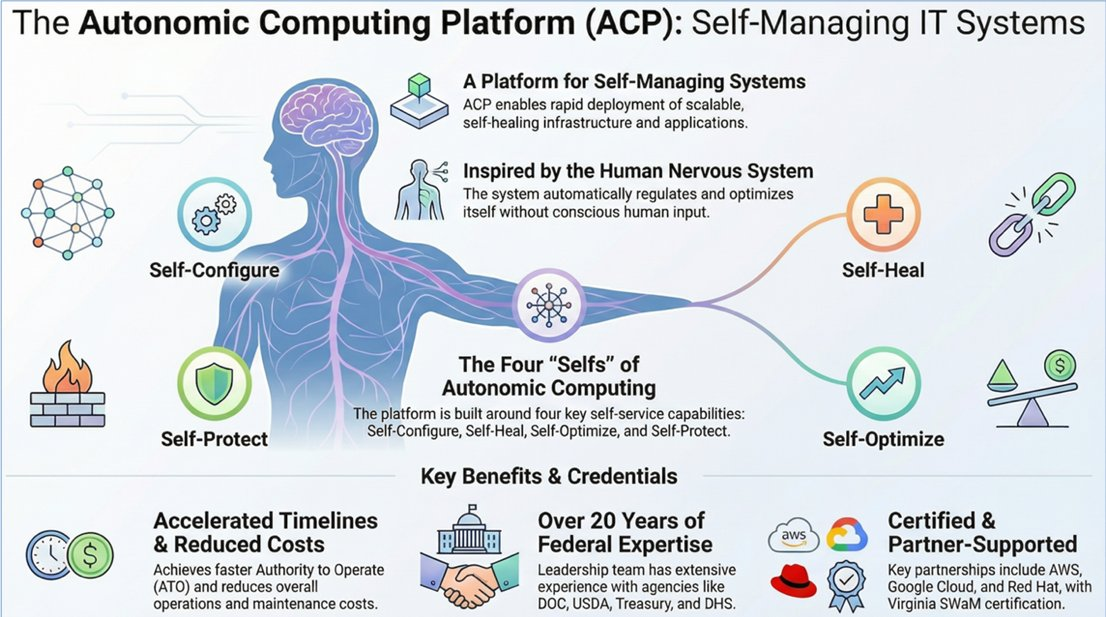
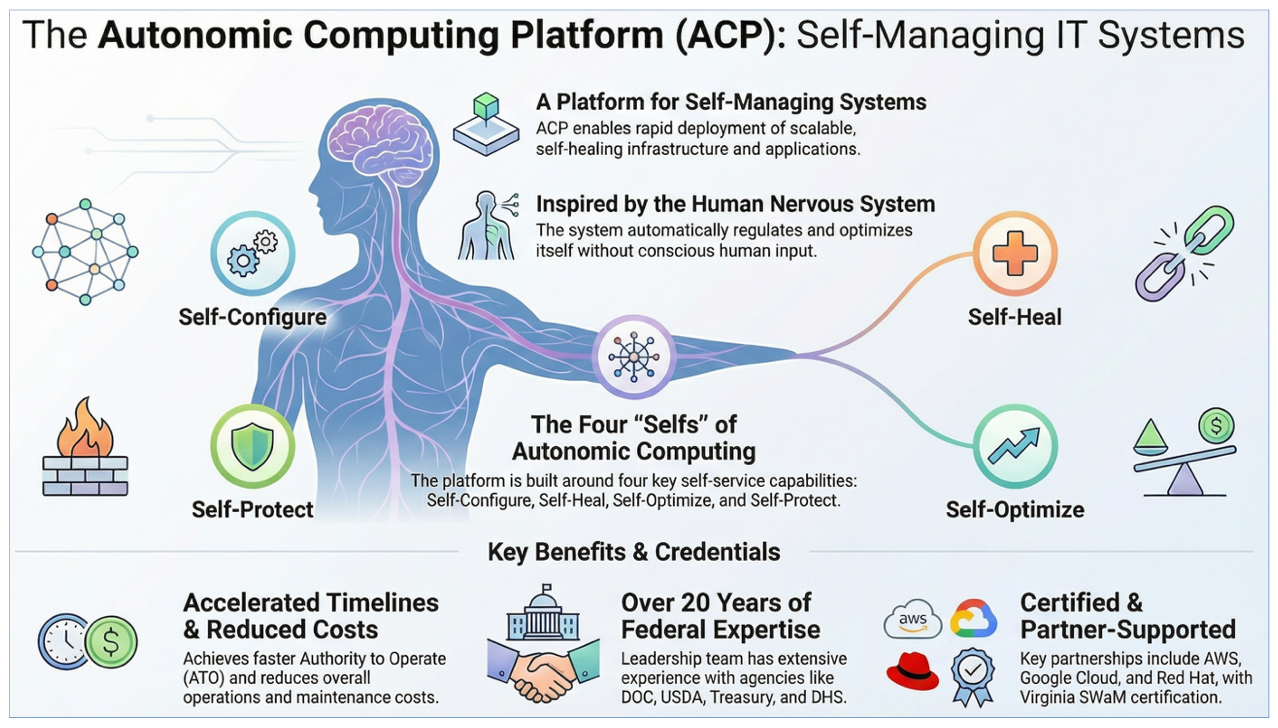
Video Testing

diff --git a/acp-core-ui/src/app/about/about.component.html b/acp-core-ui/src/app/about/about.component.html
@@ -27,7 +27,8 @@
                 <p>
                     <strong>Autonomic Solutions LLC.</strong> is a Virginia SWaM certified small business providing
                     mission-focused digital and cloud services to the US federal government. We are part of the
-                    <em>AWS Activate | Builders</em> and <em>Google Cloud for Startups</em> programs, bringing turnkey
+                    <strong><em>AWS Activate | Builders</em></strong> and <strong><em>Google Cloud for
+                            Startups</em></strong> programs, bringing turnkey
                     and innovative solutions for systems modernization and integration, cloud adoption, DevSecOps, data
                     analytics, and AI/ML implementations for enterprises. Leveraging emerging architectures and reusable
                     engineering, we build interoperable, autonomic, and distributed intelligent systems and solutions
@@ -333,10 +334,15 @@
             </div>
         </div>
         <div class="contact-note">
-            <div class="note-icon">&#9432;</div>
+            <div class="note-icon"><svg xmlns="http://www.w3.org/2000/svg" width="28" height="28" viewBox="0 0 24 24"
+                    fill="none" stroke="#e6bb00" stroke-width="1.8" stroke-linecap="round" stroke-linejoin="round">
+                    <circle cx="12" cy="12" r="10" />
+                    <line x1="2" y1="12" x2="22" y2="12" />
+                    <path
+                        d="M12 2a15.3 15.3 0 0 1 4 10 15.3 15.3 0 0 1-4 10 15.3 15.3 0 0 1-4-10 15.3 15.3 0 0 1 4-10z" />
+                </svg></div>
             <p>Transforming organizations through purpose-built solutions for enduring impact to society and future
                 generations.</p>
-            <p class="note-legal"><em>Not for Distribution without Prior Authorization</em></p>
         </div>
     </div>
 </section>

diff --git a/acp-core-ui/src/app/about/about.component.css b/acp-core-ui/src/app/about/about.component.css
@@ -83,7 +83,7 @@
    ============================================= */
 .about-section {
     width: 100%;
-    padding: 60px 0;
+    padding: 32px 0;
 }
 
 .section-inner {
@@ -239,8 +239,8 @@
     margin-bottom: 32px;
     width: 100%;
     box-sizing: border-box;
-    color: #2c3e50;
-    font-size: 15px;
+    color: #000000;
+    font-size: 16px;
     line-height: 1.75;
     text-align: center;
     box-shadow: 0 2px 10px rgba(0, 0, 0, 0.06);
@@ -275,8 +275,8 @@
 
 .infographic-caption {
     font-family: Arial, Helvetica, sans-serif;
-    font-size: 14px;
-    color: #000000;
+    font-size: 16px;
+    color: #003160;
     margin: 16px 0 0;
     font-style: italic;
     max-width: 135ex;
@@ -295,7 +295,7 @@
     font-family: Arial, Helvetica, sans-serif;
     font-size: 16px;
     line-height: 1.85;
-    color: #2c3e50;
+    color: #000000;
     margin-bottom: 20px;
 }
 
@@ -521,7 +521,7 @@
 
 .cred-text p {
     font-family: Arial, Helvetica, sans-serif;
-    font-size: 13px;
+    font-size: 14px;
     line-height: 1.65;
     color: #4a5568;
     margin: 0;
@@ -535,7 +535,7 @@
     gap: 24px;
     flex-wrap: wrap;
     padding: 24px 0 8px;
-    border-top: 1px solid #dde3ec;
+    border-top: 1px solid #e6bb00;
 }
 
 .partner-badge {
@@ -612,14 +612,14 @@
 .contact-details {
     display: flex;
     flex-direction: column;
-    gap: 14px;
+    gap: 2px;
 }
 
 .contact-row {
     display: flex;
     gap: 16px;
     font-family: Arial, Helvetica, sans-serif;
-    font-size: 14px;
+    font-size: 16px;
     color: rgba(255, 255, 255, 0.9);
     padding-bottom: 14px;
     border-bottom: 1px solid rgba(255, 255, 255, 0.1);
@@ -663,7 +663,7 @@
 
 .contact-note p {
     font-family: Arial, Helvetica, sans-serif;
-    font-size: 15px;
+    font-size: 16px;
     line-height: 1.75;
     color: rgba(255, 255, 255, 0.85);
     margin: 0 0 12px 0;

diff --git a/acp-core-backend/src/services/github.service.js b/acp-core-backend/src/services/github.service.js
@@ -43,11 +43,26 @@ exports.triggerWorkflow = async (data) => {
 
     // Trigger workflow
     const dispatchTime = Date.now();
-    await axios.post(
-        `https://api.github.com/repos/${owner}/${repo}/actions/workflows/${workflowId}/dispatches`,
-        { ref: branch, inputs: inputs || {} },
-        { headers }
-    );
+    let dispatched = false;
+    for (let attempt = 0; attempt < 5; attempt++) {
+        try {
+            await axios.post(
+                `https://api.github.com/repos/${owner}/${repo}/actions/workflows/${workflowId}/dispatches`,
+                { ref: branch, inputs: inputs || {} },
+                { headers }
+            );
+            dispatched = true;
+            break;
+        } catch (err) {
+            if (err.response?.status === 422) {
+                // Workflow not yet indexed — wait and retry
+                await new Promise(r => setTimeout(r, 5000));
+            } else {
+                throw err;
+            }
+        }
+    }
+    if (!dispatched) throw new Error(`Workflow ${workflowId} not found on branch ${branch} after retries. Ensure the workflow is committed to the default branch.`);
 
     // GitHub can lag; poll until the newly dispatched run is visible.
     // Selecting by created_at prevents picking an older completed run.
@@ -63,7 +78,7 @@ exports.triggerWorkflow = async (data) => {
         const runs = runsResp.data.workflow_runs || [];
         const matchedRun = runs.find((run) => {
             const createdAtMs = Date.parse(run.created_at || '');
-            return Number.isFinite(createdAtMs) && createdAtMs >= (dispatchTime - 10000);
+            return Number.isFinite(createdAtMs) && createdAtMs >= (dispatchTime - 60000);
         });
 
         if (matchedRun) {

diff --git a/acp-core-ui/src/app/automation-logs/automation-logs.component.ts b/acp-core-ui/src/app/automation-logs/automation-logs.component.ts
@@ -180,7 +180,19 @@ export class AutomationLogsComponent implements OnInit, OnDestroy, AfterViewChec
     }
 
     startWaitingForRunId() {
+        let waited = 0;
+        const MAX_WAIT_MS = 600000; // 10 minutes
+
         this.waitInterval = setInterval(() => {
+            waited += 5000;
+
+            if (waited >= MAX_WAIT_MS) {
+                clearInterval(this.waitInterval);
+                this.status = 'Deployment Failed ❌ (timed out waiting for GitHub run)';
+                this.isComplete = true;
+                return;
+            }
+
             this.http.get<any>(this.apiBase + 'github/pending-deployment', {
                 params: { appName: this.appName }
             }).subscribe({
@@ -204,11 +216,10 @@ export class AutomationLogsComponent implements OnInit, OnDestroy, AfterViewChec
 
                     const workflowName = `deploy-${safeAppName}.yml`;
 
-                    this.workflow = workflowName; // ADD
+                    this.workflow = workflowName;
                     this.phase = 'github';
                     this.status = 'Deployment Running...';
 
-                    // ADD: log to confirm values before polling starts
                     console.log('Switching to GitHub polling:', {
                         repoUrl: this.repoUrl,
                         workflow: this.workflow,

diff --git a/acp-core-backend/src/controllers/github.controller.js b/acp-core-backend/src/controllers/github.controller.js
@@ -286,7 +286,7 @@ exports.deployToEcs = async (req, res) => {
                 workflowContent,
                 appName
             });
-
+            
             // STEP 3: Assume role and set AWS secrets (same as before)
             const creds = {
                 AccessKeyId: appCredentials.accessKeyId,
@@ -364,7 +364,7 @@ exports.deployToEcs = async (req, res) => {
             };
 
             // Small delay to let GitHub index the newly committed workflow file (same as before)
-            await new Promise(r => setTimeout(r, 12000));
+            await new Promise(r => setTimeout(r, 30000));
 
             const { runId } = await githubService.triggerWorkflow({
                 repoUrl, branch, token,

diff --git a/acp-core-ui/src/app/login/login.component.css b/acp-core-ui/src/app/login/login.component.css
@@ -93,9 +93,9 @@
 .right-text {
   width: 58%;
   text-align: left;
-  font-size: 18px;
+  font-size: 19px;
   font-weight: 600;
-  letter-spacing: 1.2px;
+  letter-spacing: normal;
   padding-left: 56px;
   padding-top: 40px;
 
